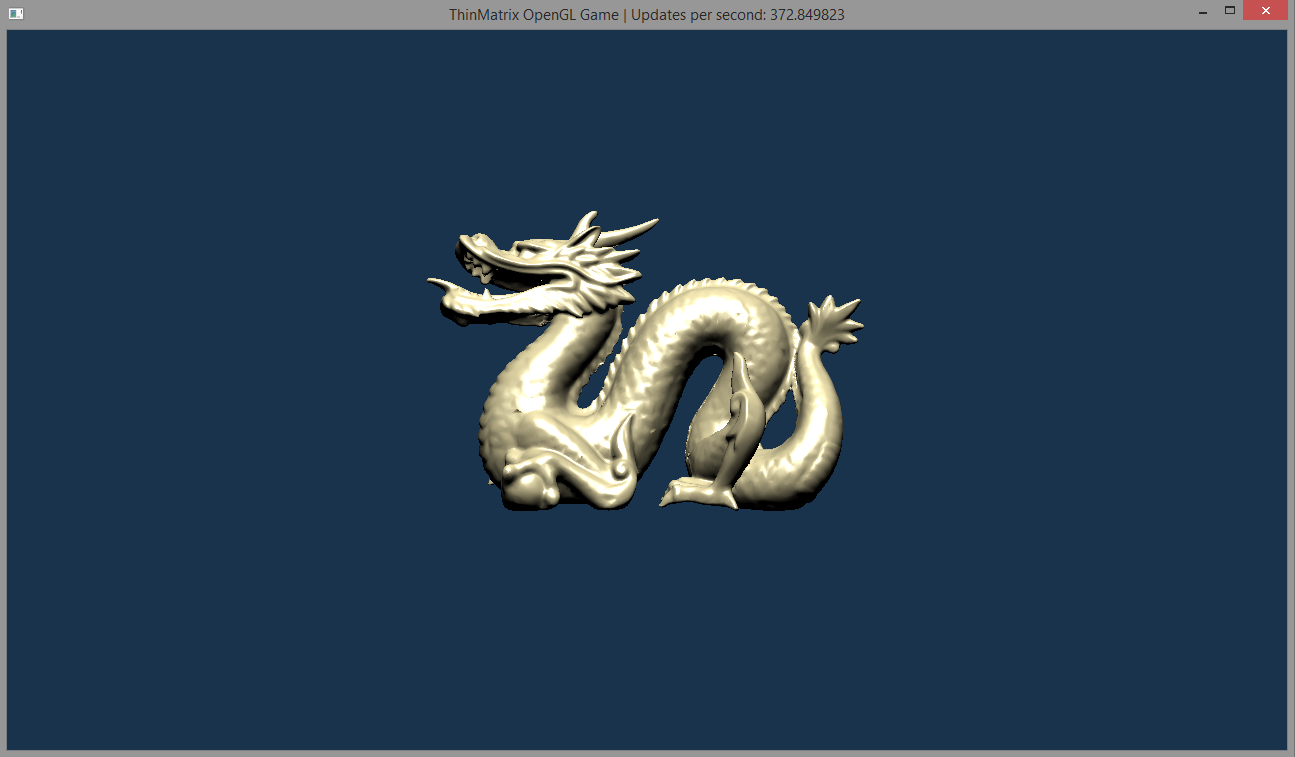
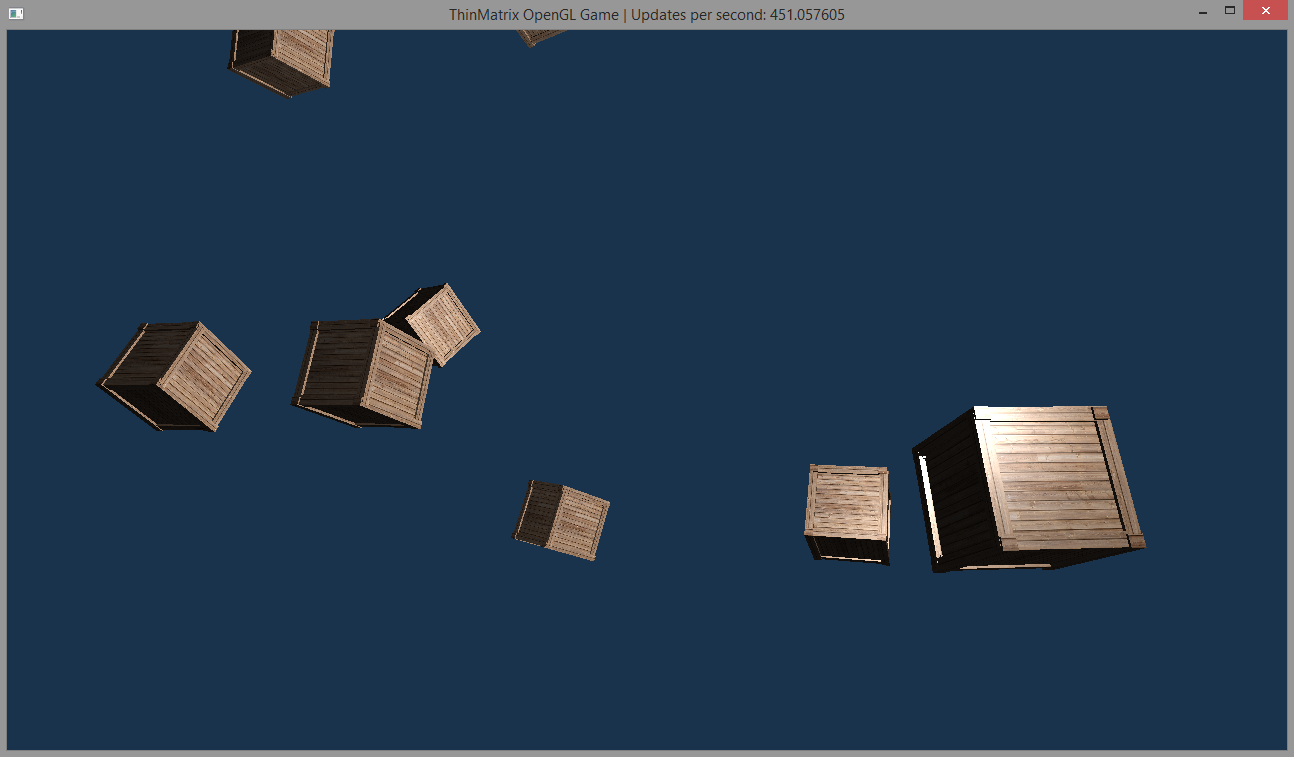
Optimizing

diff --git a/OpenGL 3D Game Tutorial - ThinMatrix/RenderEngine/Renderer.cpp b/OpenGL 3D Game Tutorial - ThinMatrix/RenderEngine/Renderer.cpp
@@ -1,11 +1,10 @@
 #include "Renderer.h"
 #include <GL\glew.h>
-#include <glm\gtx\transform.hpp>
 #include "../Toolbox/Maths.h"
 #include "../Models/RawModel.h"
 #include "../Models/TexturedModel.h"
 
-Renderer::Renderer(StaticShader& shader, float& aspect)
+Renderer::Renderer(BasicShader& shader) : m_shader(shader)
 {
 	// Don't draw faces we can't see
 	glEnable(GL_CULL_FACE);
@@ -14,14 +13,6 @@ Renderer::Renderer(StaticShader& shader, float& aspect)
 	glEnable(GL_DEPTH_TEST);
 	// Set clear color and clear the screen
 	glClearColor(0.1f, 0.2f, 0.3f, 1.0f);
-
-
-	// Create the projection matrix using GLM
-	m_projectionMatrix = glm::perspective(m_FOV, aspect, m_NEAR_PLANE, m_FAR_PLANE);
-	// Load the projection matrix into the shader
-	shader.Use();
-	shader.LoadProjectionMatrix(m_projectionMatrix);
-	shader.UnUse();
 }
 
 
@@ -30,15 +21,22 @@ Renderer::~Renderer()
 }
 
 
-void Renderer::Prepare()
+void Renderer::Render(std::map<TexturedModel, std::vector<Entity>, tmCompare>& entities)
 {
-	glClear(GL_COLOR_BUFFER_BIT | GL_DEPTH_BUFFER_BIT);
+	// Loop through the keys
+	for (auto &key : entities)
+	{
+		// key.first = Textured model, key.second = entities vector
+		BindTexturedModel(key.first);
+		for (Entity entity : key.second)
+			RenderEntity(entity);
+		UnbindTexturedModel();
+	}
 }
 
 
-void Renderer::Render(Entity& entity, StaticShader& shader)
+void Renderer::BindTexturedModel(TexturedModel texturedModel)
 {
-	TexturedModel& texturedModel = entity.GetModel();
 	// Get the RawModel from the textured model
 	RawModel& model = texturedModel.GetRawModel();
 	// Bind the models VAO
@@ -46,21 +44,28 @@ void Renderer::Render(Entity& entity, StaticShader& shader)
 	// Enable the attrib arrays
 	for (unsigned int i = 0; i < 3; i++)
 		glEnableVertexAttribArray(i);
-
-	// Load the transformation matrix into the shader
-	shader.LoadTransformMatrix(Maths::CreateTransformMatrix(entity.GetPosition(), entity.GetRotation(), entity.GetScale()));
 	// Load shine from the texture
 	ModelTexture texture = texturedModel.GetModelTexture();
-	shader.LoadShineVariables(texture.GetShineDamper(), texture.GetShine());
-
+	m_shader.LoadShineVariables(texture.GetShineDamper(), texture.GetShine());
 	// Activate an OpenGL texture and tell it where the texture is
 	glActiveTexture(GL_TEXTURE0);
 	glBindTexture(GL_TEXTURE_2D, texturedModel.GetModelTexture().GetTextureID());
-	// Draw the model
-	glDrawElements(GL_TRIANGLES, model.GetVertexCount(), GL_UNSIGNED_INT, 0);
+}
 
+
+void Renderer::UnbindTexturedModel()
+{
 	// Disable the attrib arrays
 	for (unsigned int i = 0; i < 3; i++)
 		glDisableVertexAttribArray(i);
 	glBindVertexArray(0);
+}
+
+
+void Renderer::RenderEntity(Entity& entity)
+{
+	// Load the transformation matrix into the shader
+	m_shader.LoadTransformMatrix(Maths::CreateTransformMatrix(entity.GetPosition(), entity.GetRotation(), entity.GetScale()));
+	// Draw the model
+	glDrawElements(GL_TRIANGLES, entity.GetModel().GetRawModel().GetVertexCount(), GL_UNSIGNED_INT, 0);
 }

diff --git a/OpenGL 3D Game Tutorial - ThinMatrix/Engine/GameManager.cpp b/OpenGL 3D Game Tutorial - ThinMatrix/Engine/GameManager.cpp
@@ -1,12 +1,14 @@
 #include <iostream>
+#include <stdlib.h>
+#include <ctime>
 #include <GL\glew.h>
 #include "GameManager.h"
 #include "../RenderEngine/Loader.h"
-#include "../RenderEngine/Renderer.h"
+#include "../RenderEngine/MasterRenderer.h"
 #include "../Models/RawModel.h"
 #include "../Models/TexturedModel.h"
 #include "../Textures/ModelTexture.h"
-#include "../Shaders/StaticShader.h"
+#include "../Shaders/BasicShader.h"
 #include "../Entities/Entity.h"
 #include "../Entities/Camera.h"
 #include "../RenderEngine/OBJLoader.h"
@@ -51,40 +53,41 @@ void GameManager::Start()
 {
 	std::cout << "Game loop is now running" << std::endl;
 
-	Loader loader;
-
-	StaticShader staticShader("basicShader");
-
-	Renderer renderer(staticShader, m_displayManager->GetAspect());
-
 	// START temporary data
-	std::string object = "dragon";
+	Loader loader;
+	std::string object = "box";
 	RawModel model = OBJLoader::LoadObjModel(object, loader);
 	ModelTexture texture(loader.LoadTexture(object));
 	texture.SetShineDamper(10);
 	texture.SetShine(1);
 	TexturedModel texturedModel(model, texture);
 
-	Entity entity(texturedModel, glm::vec3(0, 0, -20), glm::vec3(0, 0, 0), glm::vec3(1, 1, 1));
-	
-	Light light(glm::vec3(0, 10, 0), glm::vec3(1, 1, 1));
+	srand(time(0));
+	std::vector<Entity> entities;
+	for (int i = 0; i < 10; i++){
+		int x = rand() % 20 - 20;
+		int y = rand() % 20;
+		int z = rand() % 20 - 20;
+		entities.push_back(Entity(texturedModel, glm::vec3(x, y, z), glm::vec3(0, 0, 0), glm::vec3(1, 1, 1)));
+	}
 	// END temporary data
-	
+
+	Light light(glm::vec3(0, 10, 0), glm::vec3(1, 1, 1));
 	Camera camera;
 
 	float x = 0.002f;
+	MasterRenderer renderer(m_displayManager->GetAspect());
 	// Start the game loop
 	while (m_displayManager->IsWindowOpen())
 	{
-		// Rotate cube
-		entity.ChangeRotation(glm::vec3(0, x, 0));
 		camera.Move();
-		renderer.Prepare();
-		staticShader.Use();
-		staticShader.LoadViewMatrix(camera);
-		staticShader.LoadLight(light);
-		renderer.Render(entity, staticShader);
-		staticShader.UnUse();
+
+		for (Entity& e : entities)
+		{
+			e.ChangeRotation(glm::vec3(x * ((rand() % 8 + 2) / 2), x * ((rand() % 8 + 2) / 2), 0));
+			renderer.ProcessEntity(e);
+		}
+		renderer.Render(light, camera);
 
 		m_displayManager->UpdateDisplay();
 		m_displayManager->ShowUPS();

diff --git a/OpenGL 3D Game Tutorial - ThinMatrix/Shaders/BasicShader.cpp b/OpenGL 3D Game Tutorial - ThinMatrix/Shaders/BasicShader.cpp
@@ -1,7 +1,7 @@
-#include "StaticShader.h"
+#include "BasicShader.h"
 #include "../Toolbox/Maths.h"
 
-StaticShader::StaticShader(const std::string& fileName)
+BasicShader::BasicShader(const std::string& fileName)
 	: ShaderProgram("../res/shaders/" + fileName)
 {
 	BindAttributes();
@@ -9,44 +9,45 @@ StaticShader::StaticShader(const std::string& fileName)
 }
 
 
-StaticShader::~StaticShader()
+BasicShader::~BasicShader()
 {
 }
 
 
-void StaticShader::LoadTransformMatrix(glm::mat4& matrix)
+void BasicShader::LoadTransformMatrix(glm::mat4& matrix)
 {
 	LoadMatrix4(location_TransformMatrix, matrix);
 }
 
 
-void StaticShader::LoadProjectionMatrix(glm::mat4& matrix)
+void BasicShader::LoadProjectionMatrix(glm::mat4& matrix)
 {
 	LoadMatrix4(location_ProjectionMatrix, matrix);
 }
 
 
-void StaticShader::LoadViewMatrix(Camera& camera)
+void BasicShader::LoadViewMatrix(Camera& camera)
 {
 	LoadMatrix4(location_ViewMatrix, Maths::CreateViewMatrix(camera));
 }
 
 
-void StaticShader::LoadLight(Light& light)
+void BasicShader::LoadLight(Light& light, float ambientLight)
 {
 	LoadVector(location_lightPosition, light.GetPosition());
 	LoadVector(location_lightColor, light.GetColor());
+	LoadFloat(location_ambientLight, ambientLight);
 }
 
 
-void StaticShader::LoadShineVariables(float shineDamper, float shine)
+void BasicShader::LoadShineVariables(float shineDamper, float shine)
 {
 	LoadFloat(location_shineDamper, shineDamper);
 	LoadFloat(location_shine, shine);
 }
 
 
-void StaticShader::BindAttributes()
+void BasicShader::BindAttributes()
 {
 	BindAttribute(0, "position");
 	BindAttribute(1, "texCoords");
@@ -54,13 +55,14 @@ void StaticShader::BindAttributes()
 }
 
 
-void StaticShader::GetAllUniformLocations()
+void BasicShader::GetAllUniformLocations()
 {
 	location_TransformMatrix = GetUniformLocation("transformMatrix");
 	location_ProjectionMatrix = GetUniformLocation("projectionMatrix");
 	location_ViewMatrix = GetUniformLocation("viewMatrix");
 	location_lightPosition = GetUniformLocation("lightPosition");
 	location_lightColor = GetUniformLocation("lightColor");
+	location_ambientLight = GetUniformLocation("ambientLight");
 	location_shineDamper = GetUniformLocation("shineDamper");
 	location_shine = GetUniformLocation("shine");
 }

diff --git a/OpenGL 3D Game Tutorial - ThinMatrix/RenderEngine/MasterRenderer.cpp b/OpenGL 3D Game Tutorial - ThinMatrix/RenderEngine/MasterRenderer.cpp
@@ -1,0 +1,45 @@
+#include <glm\gtx\transform.hpp>
+#include "MasterRenderer.h"
+
+MasterRenderer::MasterRenderer(float aspectRatio)
+	: m_shader(BasicShader("basicShader")), m_renderer(Renderer(m_shader))
+{
+	// Create the projection matrix using GLM and load it into the shader
+	m_shader.Use();
+	m_shader.LoadProjectionMatrix(glm::perspective(m_FOV, aspectRatio, m_NEAR_PLANE, m_FAR_PLANE));
+	m_shader.UnUse();
+}
+
+
+MasterRenderer::~MasterRenderer()
+{
+}
+
+
+void MasterRenderer::Render(Light& light, Camera& camera)
+{
+	// Clear buffers and activate the shader
+	glClear(GL_COLOR_BUFFER_BIT | GL_DEPTH_BUFFER_BIT);
+	m_shader.Use();
+	// Load shader parameters
+	m_shader.LoadLight(light, 0.1f);
+	m_shader.LoadViewMatrix(camera);
+
+	m_renderer.Render(m_entities);
+
+	// Deactivate shader and clear entities
+	m_shader.UnUse();
+	m_entities.clear();
+}
+
+#include <iostream>
+void MasterRenderer::ProcessEntity(Entity& entity)
+{
+	// Get the textured model
+	TexturedModel& texturedModel = entity.GetModel();
+	// If the texturedmodel is in the map this will do nothing
+	// If it is not in the map it will insert it
+	m_entities.insert(std::make_pair(texturedModel, std::vector<Entity>()));
+	// Add the entity to the entities list
+	m_entities.find(texturedModel)->second.push_back(entity);
+}

diff --git a/OpenGL 3D Game Tutorial - ThinMatrix/RenderEngine/Renderer.h b/OpenGL 3D Game Tutorial - ThinMatrix/RenderEngine/Renderer.h
@@ -1,23 +1,32 @@
 #ifndef RENDERER_H
 #define RENDERER_H
 
-#include <glm\glm.hpp>
+#include <map>
+#include <vector>
 #include "../Entities/Entity.h"
-#include "../Shaders/StaticShader.h"
+#include "../Shaders/BasicShader.h"
+
+struct tmCompare
+{
+public:
+	bool operator() (const TexturedModel& t1, const TexturedModel& t2)
+	{
+		return &t1 == &t2;
+	}
+};
 
 class Renderer
 {
 public:
-	Renderer(StaticShader& shader, float& aspect);
+	Renderer(BasicShader& shader);
 	virtual ~Renderer();
 
-	void Prepare();
-	void Render(Entity& entity, StaticShader& shader);
+	void Render(std::map<TexturedModel, std::vector<Entity>, tmCompare>& entities);
 private:
-	const float m_FOV = 70;
-	const float m_NEAR_PLANE = 0.1f;
-	const float m_FAR_PLANE = 1000;
-	glm::mat4 m_projectionMatrix;
+	BasicShader& m_shader;
+	void BindTexturedModel(TexturedModel texturedModel);
+	void UnbindTexturedModel();
+	void RenderEntity(Entity& entity);
 };
 
 #endif // RENDERER_H

diff --git a/OpenGL 3D Game Tutorial - ThinMatrix/Shaders/BasicShader.h b/OpenGL 3D Game Tutorial - ThinMatrix/Shaders/BasicShader.h
@@ -6,16 +6,16 @@
 #include "../Entities/Camera.h"
 #include "../Entities/Light.h"
 
-class StaticShader : public ShaderProgram
+class BasicShader : public ShaderProgram
 {
 public:
-	StaticShader(const std::string& fileName);
-	virtual ~StaticShader();
+	BasicShader(const std::string& fileName);
+	virtual ~BasicShader();
 
 	void LoadTransformMatrix(glm::mat4& matrix);
 	void LoadProjectionMatrix(glm::mat4& matrix);
 	void LoadViewMatrix(Camera& camera);
-	void LoadLight(Light& light);
+	void LoadLight(Light& light, float ambientLight);
 	void LoadShineVariables(float shineDamper, float shine);
 private:
 	GLuint location_TransformMatrix;
@@ -23,6 +23,7 @@ private:
 	GLuint location_ViewMatrix;
 	GLuint location_lightPosition;
 	GLuint location_lightColor;
+	GLuint location_ambientLight;
 	GLuint location_shineDamper;
 	GLuint location_shine;
 protected:

diff --git a/OpenGL 3D Game Tutorial - ThinMatrix/RenderEngine/MasterRenderer.h b/OpenGL 3D Game Tutorial - ThinMatrix/RenderEngine/MasterRenderer.h
@@ -1,0 +1,24 @@
+#ifndef MASTERRENDERER_H
+#define MASTERRENDERER_H
+
+#include "Renderer.h"
+
+class MasterRenderer
+{
+public:
+	MasterRenderer(float aspectRatio);
+	virtual ~MasterRenderer();
+
+	void Render(Light& light, Camera& camera);
+	void ProcessEntity(Entity& entity);
+private:
+	const float m_FOV = 70;
+	const float m_NEAR_PLANE = 0.1f;
+	const float m_FAR_PLANE = 1000;
+	BasicShader m_shader;
+	Renderer m_renderer;
+
+	std::map<TexturedModel, std::vector<Entity>, tmCompare> m_entities;
+};
+
+#endif // MASTERRENDERER_H
